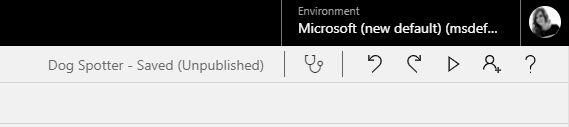
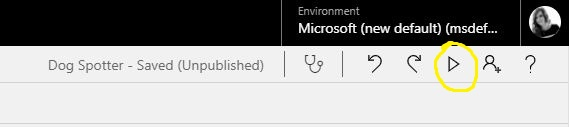
finish powerapps section

Changed region(s): [[0.7469, 0.3071, 0.8664, 0.7323]]

diff --git a/README.md b/README.md
@@ -398,11 +398,29 @@ On the properties pane for the button change the **Text** field to **Send**
 
 ![PowerApps Button Properties](docs-images/powerapps-button-properties.JPG)
 
+Now we need to add Azure Blob Storage as our data source. This will mean we can send the image taken by the camera in the app to storage and this will trigger our Logic app
+
+Go to **View** in the main toolbar, then **Data Sources**. This will open a pane on the right where you can click **Add Data Source**
 
 ![PowerApps Add Data Source](docs-images/powerapps-add-datasource.JPG)
 
+Select **New Connection** and search for **blob** in the search box. Then click the Azure Blob Storage option
+
+![PowerApps Add Data Source setup connection](docs-images/powerapps-datasource-setup.JPG)
+
+Insert the connection information for your Azure Blob Storage account you used in the Logic App scenario: example ainightsstor.
+
+![PowerApps Add Data Source setup connection](docs-images/PowerApps-azure-blob-storage-connection.JPG)
+
+Once authenticated you will then see your blob storage connection added to the connections pane
 
 ![PowerApps Data Added](docs-images/powerapps-data-added.JPG)
+
+Now we can use this connection in a function. Click on the **Send** button and switch to the **Advanced** pane.
+
+In the OnSelect box type: 
+ ``` AzureBlobStorage.CreateFile("images", TextInput1.Text, Camera1.Photo) ```
+
 
 ![PowerApps Azure Blob Function](docs-images/powerapps-function.JPG)
 
@@ -411,11 +429,17 @@ Now we have built an app lets test it in our development environment. In the top
 
 ![PowerApps Preview your app](docs-images/powerapps-preview-app.JPG)
 
+> Test you app by taking a picture of a dog (or anything at this point). The camera will take a picture - name it - click the send button. Once sent wait a moment and you should recieve an email as your Logic app will have triggered
+
+![PowerApps Preview your app](docs-images/powerapps-preview-running.JPG)
+
 Now we are going to **Save** and **Publish** the application so you can use it on your mobile device
 
-Go to the **File** tab in to top toolbar and choose the option on the left pane **Save**.
+Go to the **File** tab in to top toolbar and choose the option on the left pane **Save**. Then click the **save** button.
 
-PUBLISH THIS VERSION??
+Once saved you will have the **Publish** button appear - select this
+
+![PowerApps Publish](docs-images/powerapps-publish.JPG)
 
 ![PowerApps save](docs-images/powerapps-saved.JPG)
 
